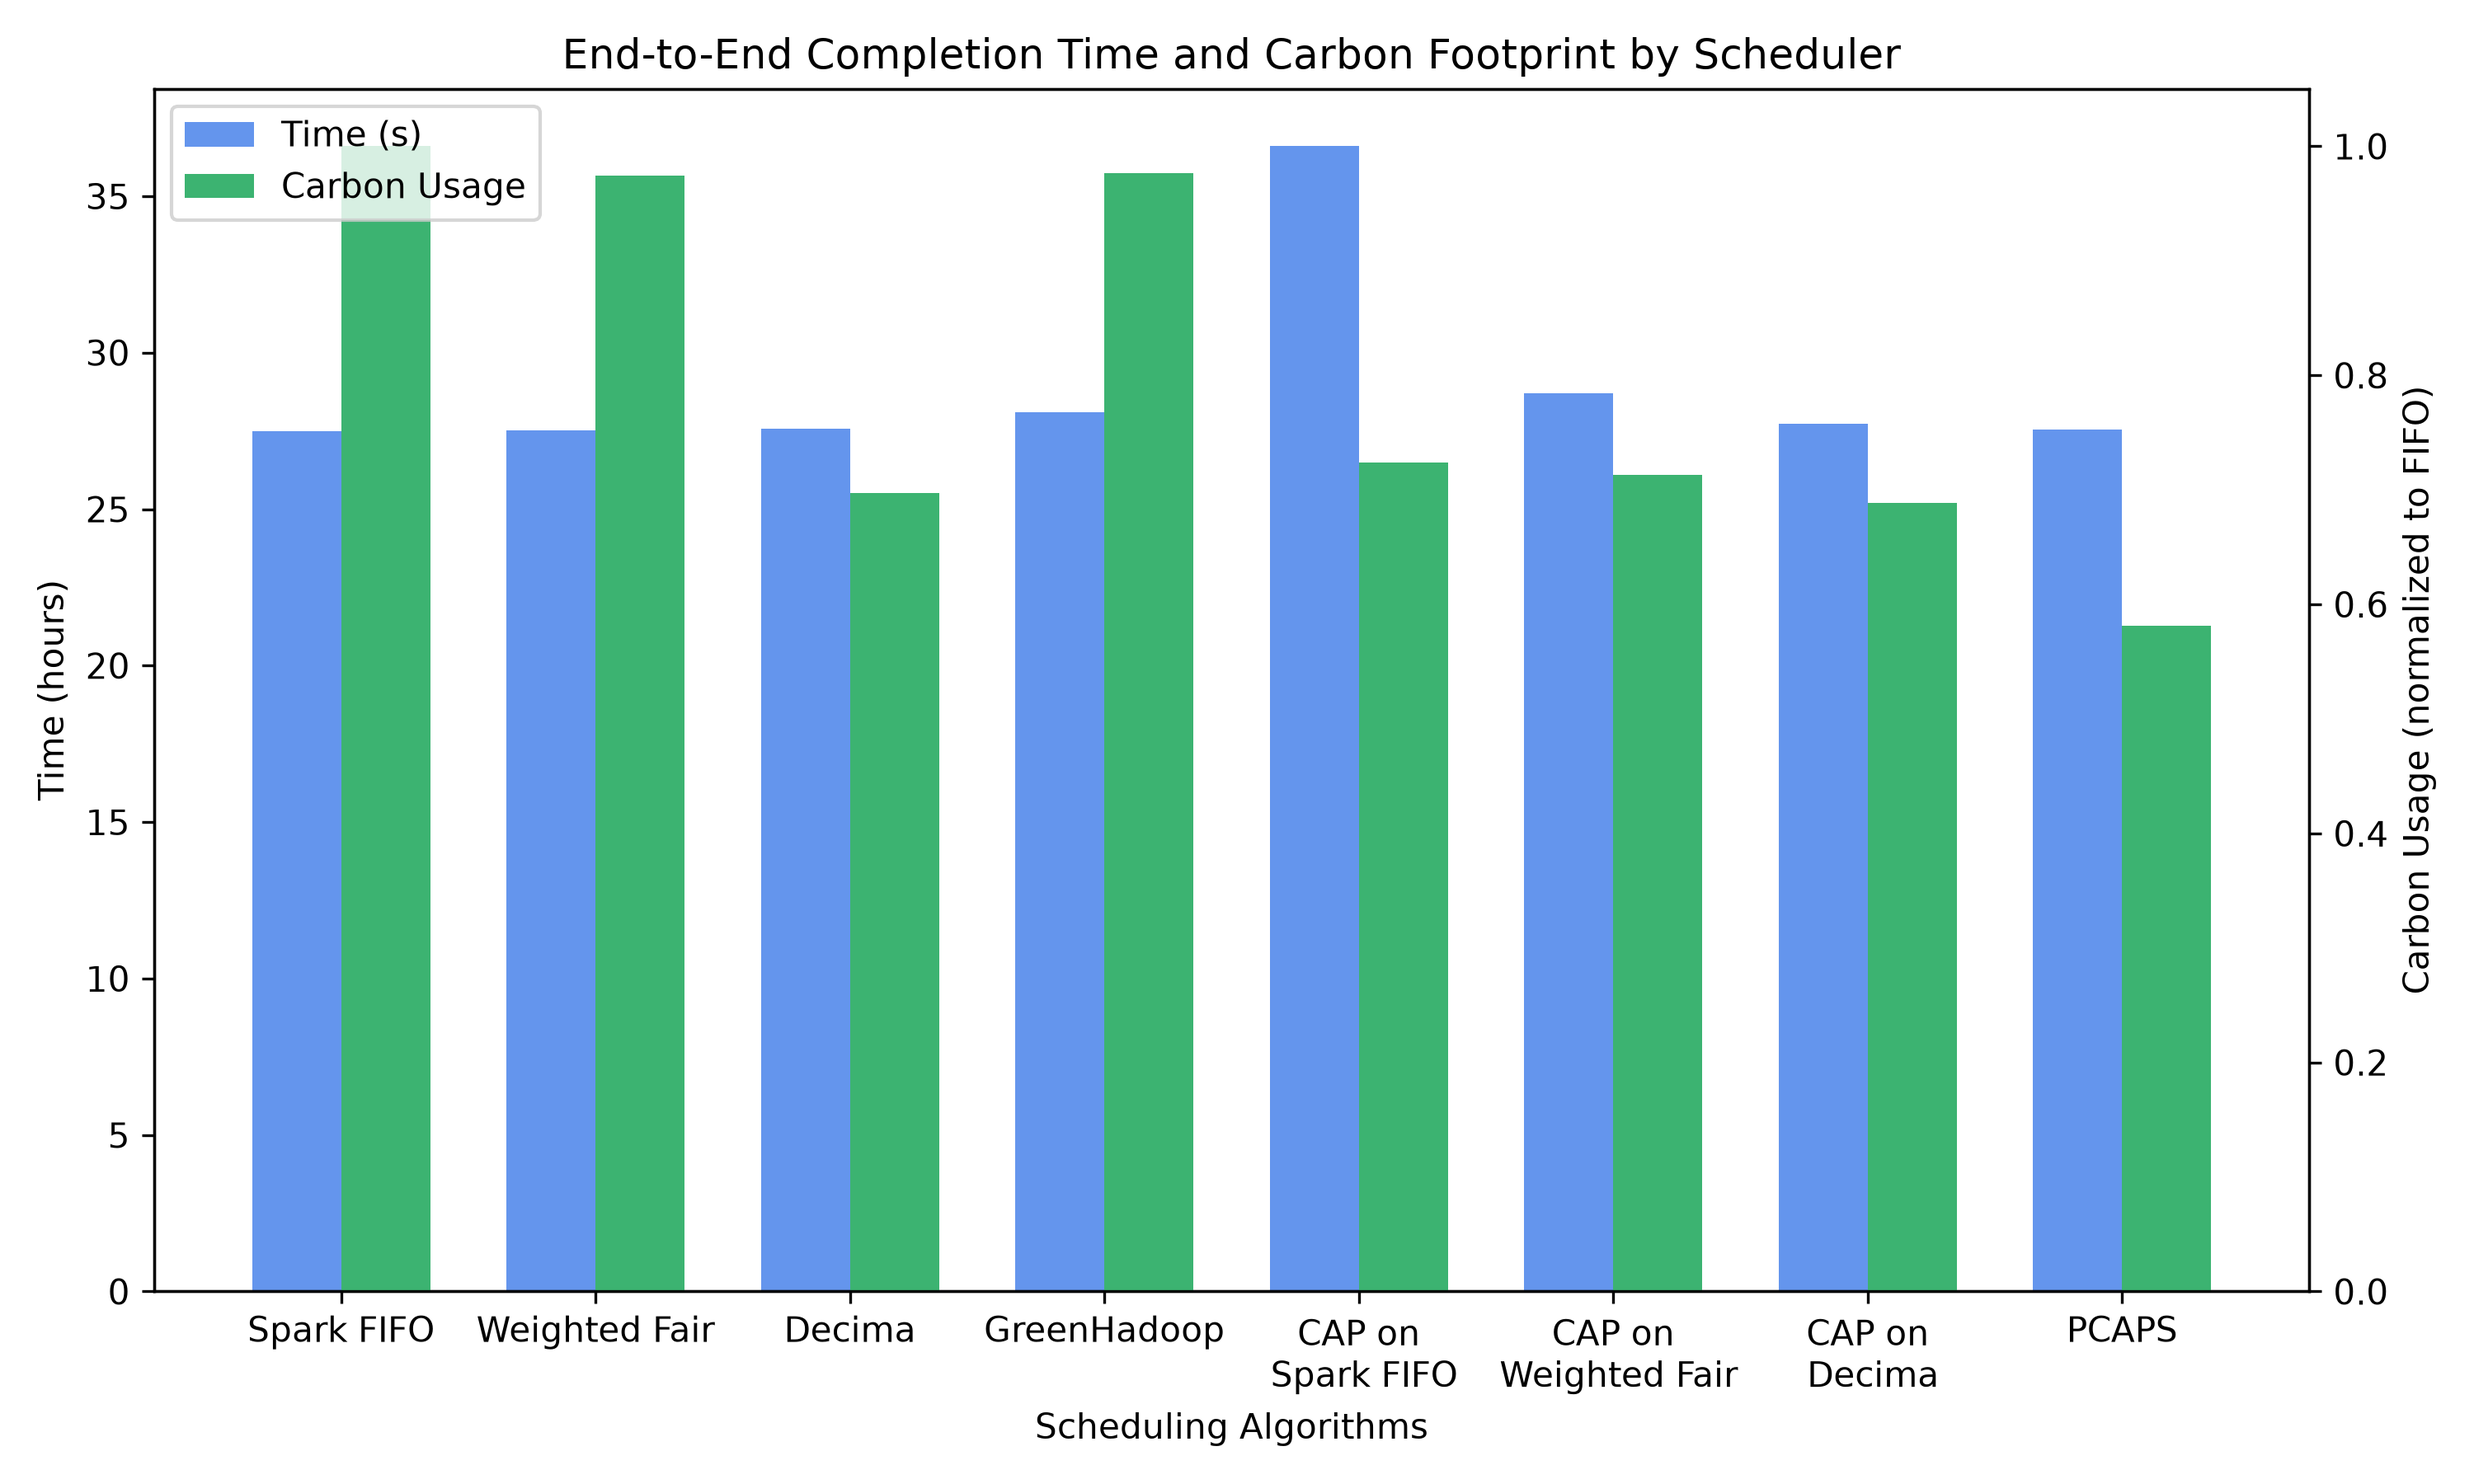
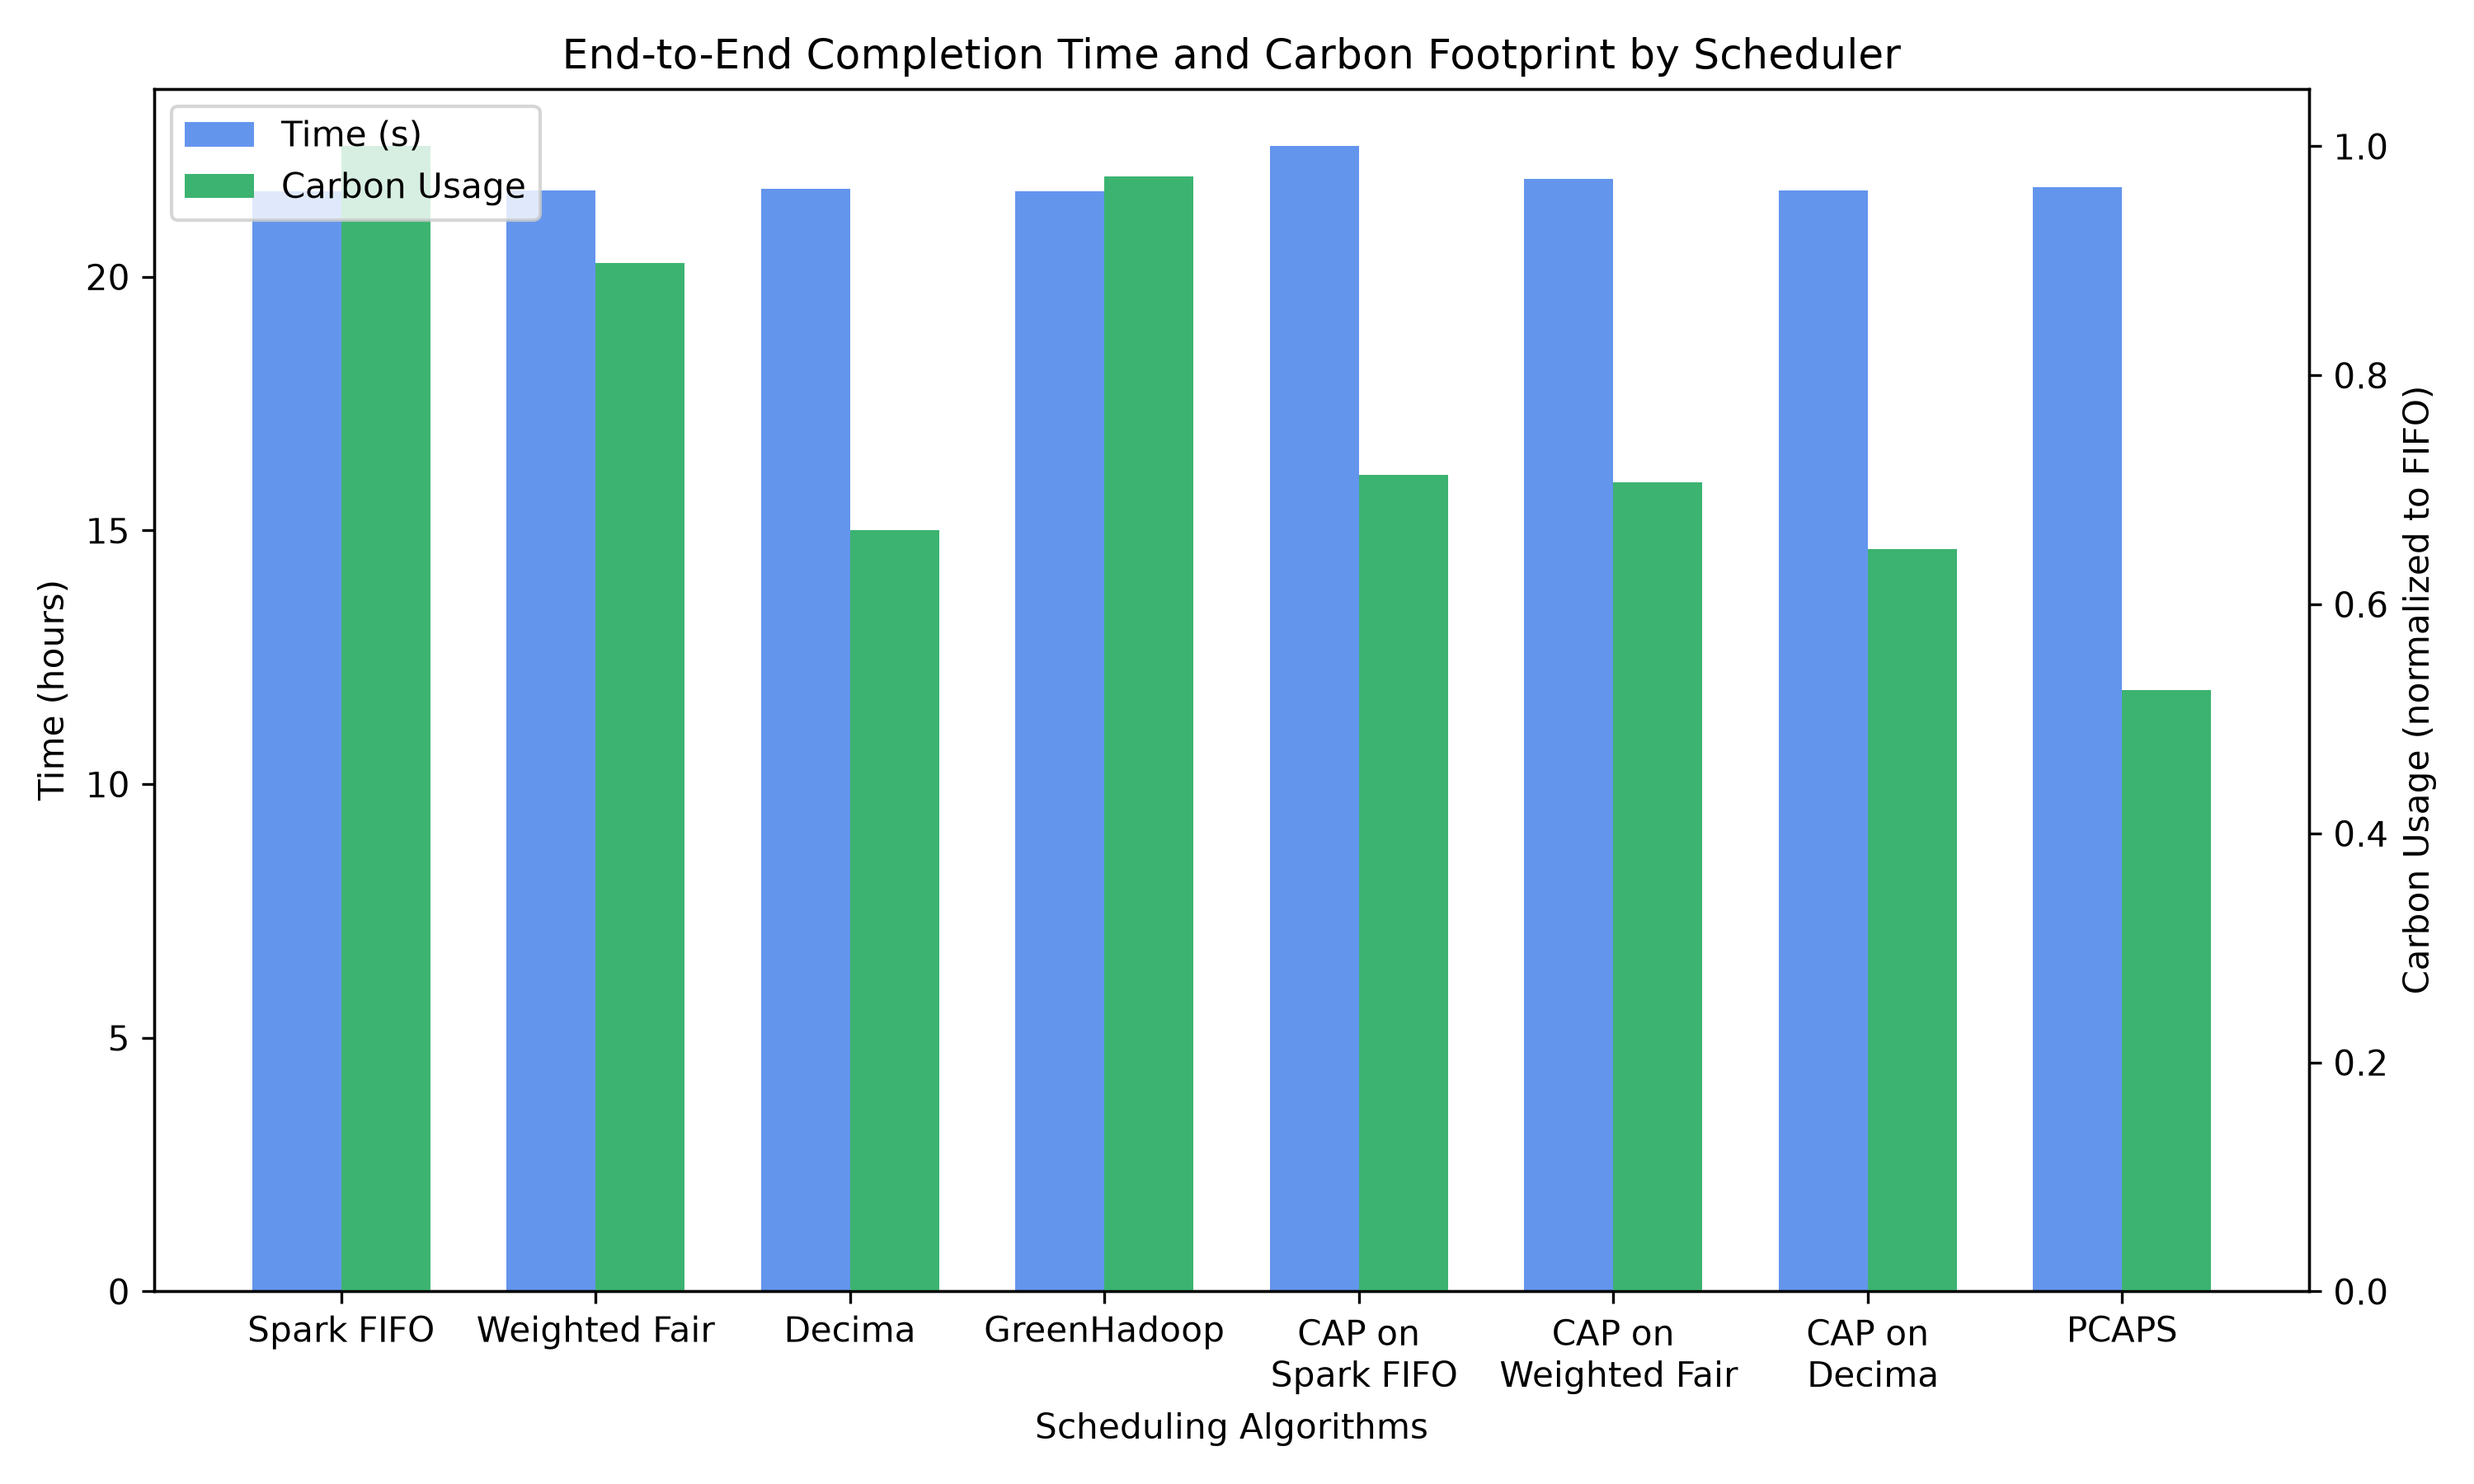
refactor: make all sources of randomness deterministic for reproducible runs

diff --git a/simulator/spark_env/node.py b/simulator/spark_env/node.py
@@ -106,13 +106,17 @@ class Node(object):
                 # (1) try to directly retrieve the warmup delay from data
                 fresh_durations = \
                     self.task_duration['fresh_durations'][executor_key]
-                i = np.random.randint(len(fresh_durations))
+                # i = np.random.randint(len(fresh_durations))
+                # Use a fixed seed for reproducibility
+                i = self.np_random.randint(len(fresh_durations))
                 duration = fresh_durations[i]
             else:
                 # (2) use first wave but deliberately add in a warmup delay
                 first_wave = \
                     self.task_duration['first_wave'][executor_key]
-                i = np.random.randint(len(first_wave))
+                # i = np.random.randint(len(first_wave))
+                # Use a fixed seed for reproducibility
+                i = self.np_random.randint(len(first_wave))
                 duration = first_wave[i] + args.warmup_delay
 
         elif executor.task is not None and \
@@ -121,7 +125,9 @@ class Node(object):
             # executor was working on this node
             # the task duration should be retrieved from rest wave
             rest_wave = self.task_duration['rest_wave'][executor_key]
-            i = np.random.randint(len(rest_wave))
+            # i = np.random.randint(len(rest_wave))
+            # Use a fixed seed for reproducibility
+            i = self.np_random.randint(len(rest_wave))
             duration = rest_wave[i]
         else:
             # executor is fresh to this node, use first wave
@@ -129,14 +135,18 @@ class Node(object):
                 # (1) try to retrieve first wave from data
                 first_wave = \
                     self.task_duration['first_wave'][executor_key]
-                i = np.random.randint(len(first_wave))
+                # i = np.random.randint(len(first_wave))
+                # Use a fixed seed for reproducibility
+                i = self.np_random.randint(len(first_wave))
                 duration = first_wave[i]
             else:
                 # (2) first wave doesn't exist, use fresh durations instead
                 # (should happen very rarely)
                 fresh_durations = \
                     self.task_duration['fresh_durations'][executor_key]
-                i = np.random.randint(len(fresh_durations))
+                # i = np.random.randint(len(fresh_durations))
+                # Use a fixed seed for reproducibility
+                i = self.np_random.randint(len(fresh_durations))
                 duration = fresh_durations[i]
 
         # detach the executor from old node

diff --git a/simulator/test.py b/simulator/test.py
@@ -28,10 +28,19 @@ df = pd.read_csv(args.carbon_trace)
 c = df["carbon_intensity_avg"]
 r = df['power_production_percent_renewable_avg']
 
-# pick a random start time in the trace
-start_time = np.random.randint(0, len(c) - 100)
-c = c[start_time:start_time + 100].to_list()
-r = r[start_time:start_time + 100].to_list()
+# # pick a random start time in the trace
+# start_time = np.random.randint(0, len(c) - 100)
+# c = c[start_time:start_time + 100].to_list()
+# r = r[start_time:start_time + 100].to_list()
+
+# Select a specific start index for the trace to ensure reproducibility
+TRACE_START = 500
+
+if TRACE_START < 0 or TRACE_START + 100 > len(c):
+    raise ValueError("TRACE_START must select 100 valid samples")
+
+c = c[TRACE_START:TRACE_START + 100].to_list()
+r = r[TRACE_START:TRACE_START + 100].to_list()
 
 carbon_schedule = [(60000 * i, c[i]) for i in range(len(c))]
 
@@ -86,8 +95,14 @@ for exp in range(args.num_exp):
 
     for scheme in args.test_schemes:
         print('Scheme ' + scheme)
-        # reset environment with seed
-        env.seed(args.num_ep + exp)
+        # # reset environment with seed
+        # env.seed(args.num_ep + exp)
+        # env.reset()
+        
+        # Use a fixed seed for reproducibility across experiments
+        FIXED_EXP_SEED = 12345
+
+        env.seed(FIXED_EXP_SEED)
         env.reset()
 
         # load an agent
@@ -111,7 +126,12 @@ for exp in range(args.num_exp):
         elif scheme == 'pcaps':
             # refresh tensorflow completely
             tf.compat.v1.reset_default_graph() 
-            tf.compat.v1.set_random_seed(args.seed)
+            # tf.compat.v1.set_random_seed(args.seed)
+            
+            # Set a fixed seed for TensorFlow to ensure reproducibility
+            FIXED_TF_SEED = 42
+            tf.compat.v1.set_random_seed(FIXED_TF_SEED)
+            
             sess = tf.compat.v1.Session()
             # initialize scheduler
             agent = PCAPSAgent(
